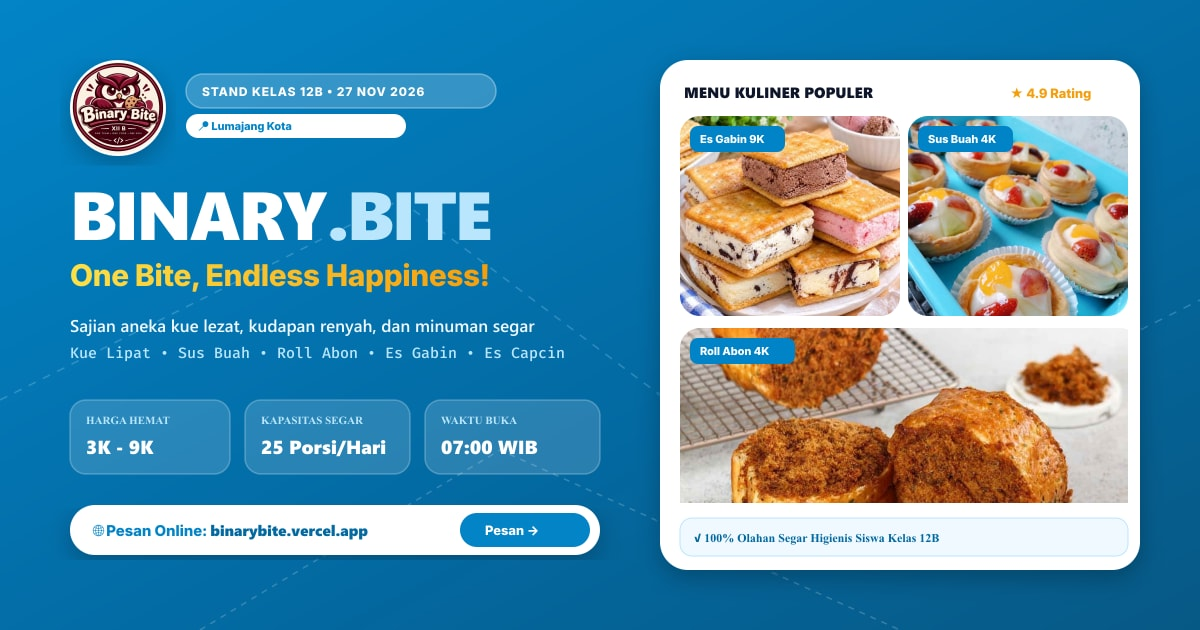
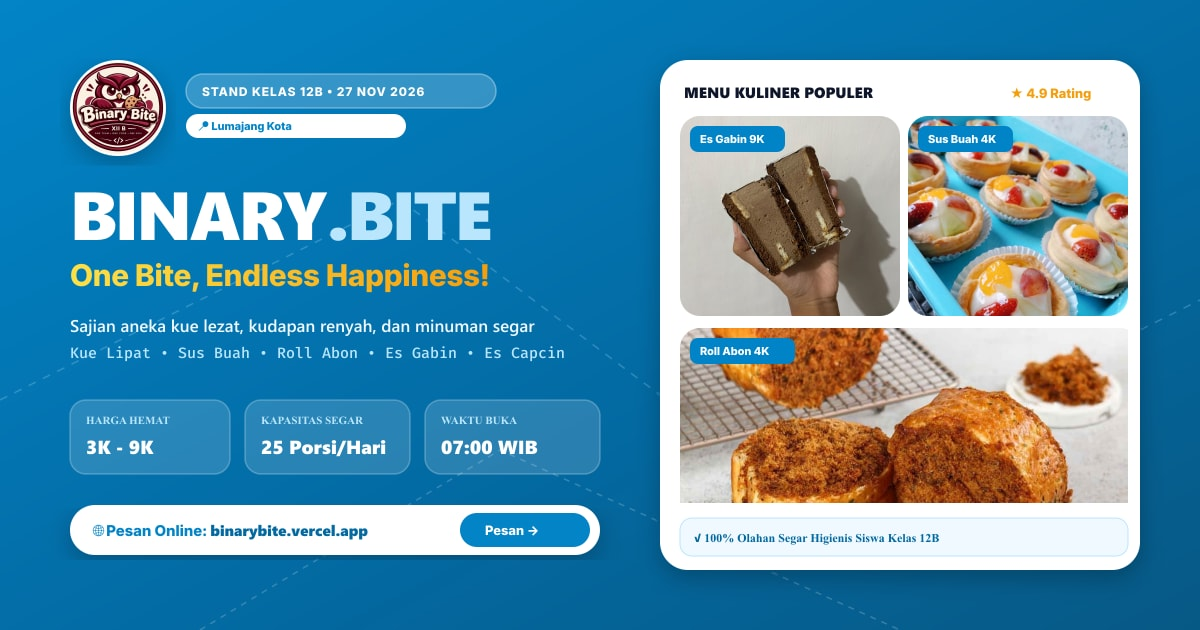
feat: update Es Gabin variant images with interactive flavor photo switching (Coklat & Cookies and Cream)

Changed region(s): [[0.555, 0.181, 0.7708, 0.5127]]

diff --git a/src/components/ProductCard.tsx b/src/components/ProductCard.tsx
@@ -19,6 +19,10 @@ export const ProductCard: React.FC<ProductCardProps> = ({ product }) => {
   const currentQuantity = getItemQuantity(product.id, selectedFlavor);
   const currentItemId = selectedFlavor ? `${product.id}-${selectedFlavor}` : product.id;
 
+  const displayImage =
+    (selectedFlavor && product.flavorImages && product.flavorImages[selectedFlavor]) ||
+    product.image;
+
   const handleAdd = () => {
     addItem(product, selectedFlavor);
   };
@@ -36,8 +40,8 @@ export const ProductCard: React.FC<ProductCardProps> = ({ product }) => {
       {/* Product Image Frame */}
       <div className="relative aspect-[4/3] rounded-2xl overflow-hidden mb-3.5 bg-sky-50">
         <img
-          src={product.image}
-          alt={product.alt}
+          src={displayImage}
+          alt={`${product.alt}${selectedFlavor ? ` varian ${selectedFlavor}` : ''}`}
           className="w-full h-full object-cover group-hover:scale-[1.025] transition-transform duration-300"
           loading="lazy"
         />

diff --git a/src/components/CartDrawer.tsx b/src/components/CartDrawer.tsx
@@ -94,7 +94,10 @@ export const CartDrawer: React.FC<CartDrawerProps> = ({ onOpenCheckout }) => {
                 {/* Product thumbnail */}
                 <div className="w-16 h-16 rounded-xl border border-slate-200 bg-sky-50/50 flex items-center justify-center p-1.5 flex-shrink-0 overflow-hidden">
                   <img
-                    src={item.product.image}
+                    src={
+                      (item.selectedFlavor && item.product.flavorImages && item.product.flavorImages[item.selectedFlavor]) ||
+                      item.product.image
+                    }
                     alt={item.product.name}
                     className="w-full h-full object-cover rounded-lg group-hover:scale-[1.025] transition-transform"
                   />

diff --git a/src/data/products.ts b/src/data/products.ts
@@ -45,10 +45,14 @@ export const OFFICIAL_PRODUCTS: Product[] = [
     category: 'Makanan',
     badge: '[04] BEST SELLER ICE',
     description: 'Biskuit gabin renyah dengan isian fla lembut dingin yang tebal, manis, dan menyegarkan.',
-    image: '/images/products/es-gabin.jpg',
+    image: '/images/products/es-gabin-coklat.jpg',
     alt: 'Gabin Ice Cream tebal dingin Binary Bite',
     isPopular: true,
     flavors: ['Coklat', 'Cookies and Cream'],
+    flavorImages: {
+      'Coklat': '/images/products/es-gabin-coklat.jpg',
+      'Cookies and Cream': '/images/products/es-gabin-cookies.jpg',
+    },
   },
   {
     id: 'es-capcin',

diff --git a/src/types/index.ts b/src/types/index.ts
@@ -12,6 +12,7 @@ export interface Product {
   alt: string;
   isPopular?: boolean;
   flavors?: string[];
+  flavorImages?: { [flavor: string]: string };
 }
 
 export interface CartItem {
